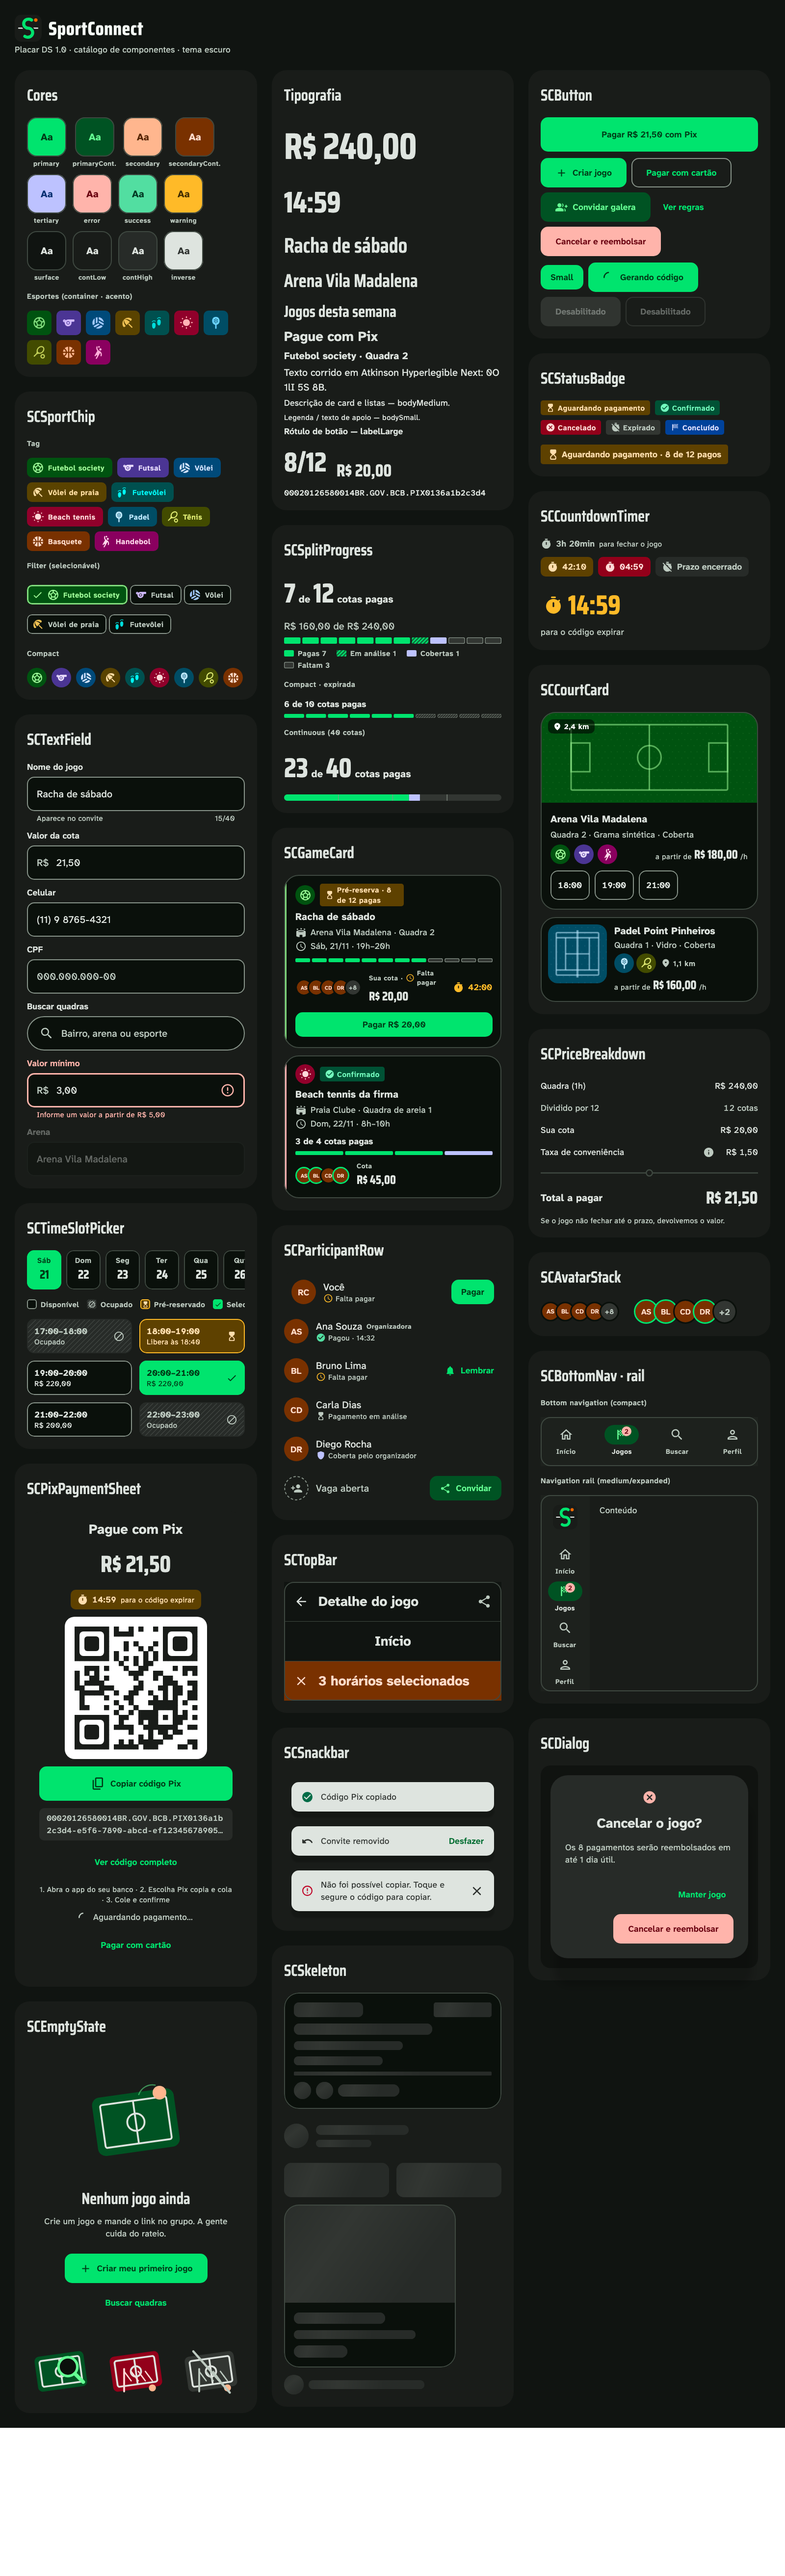
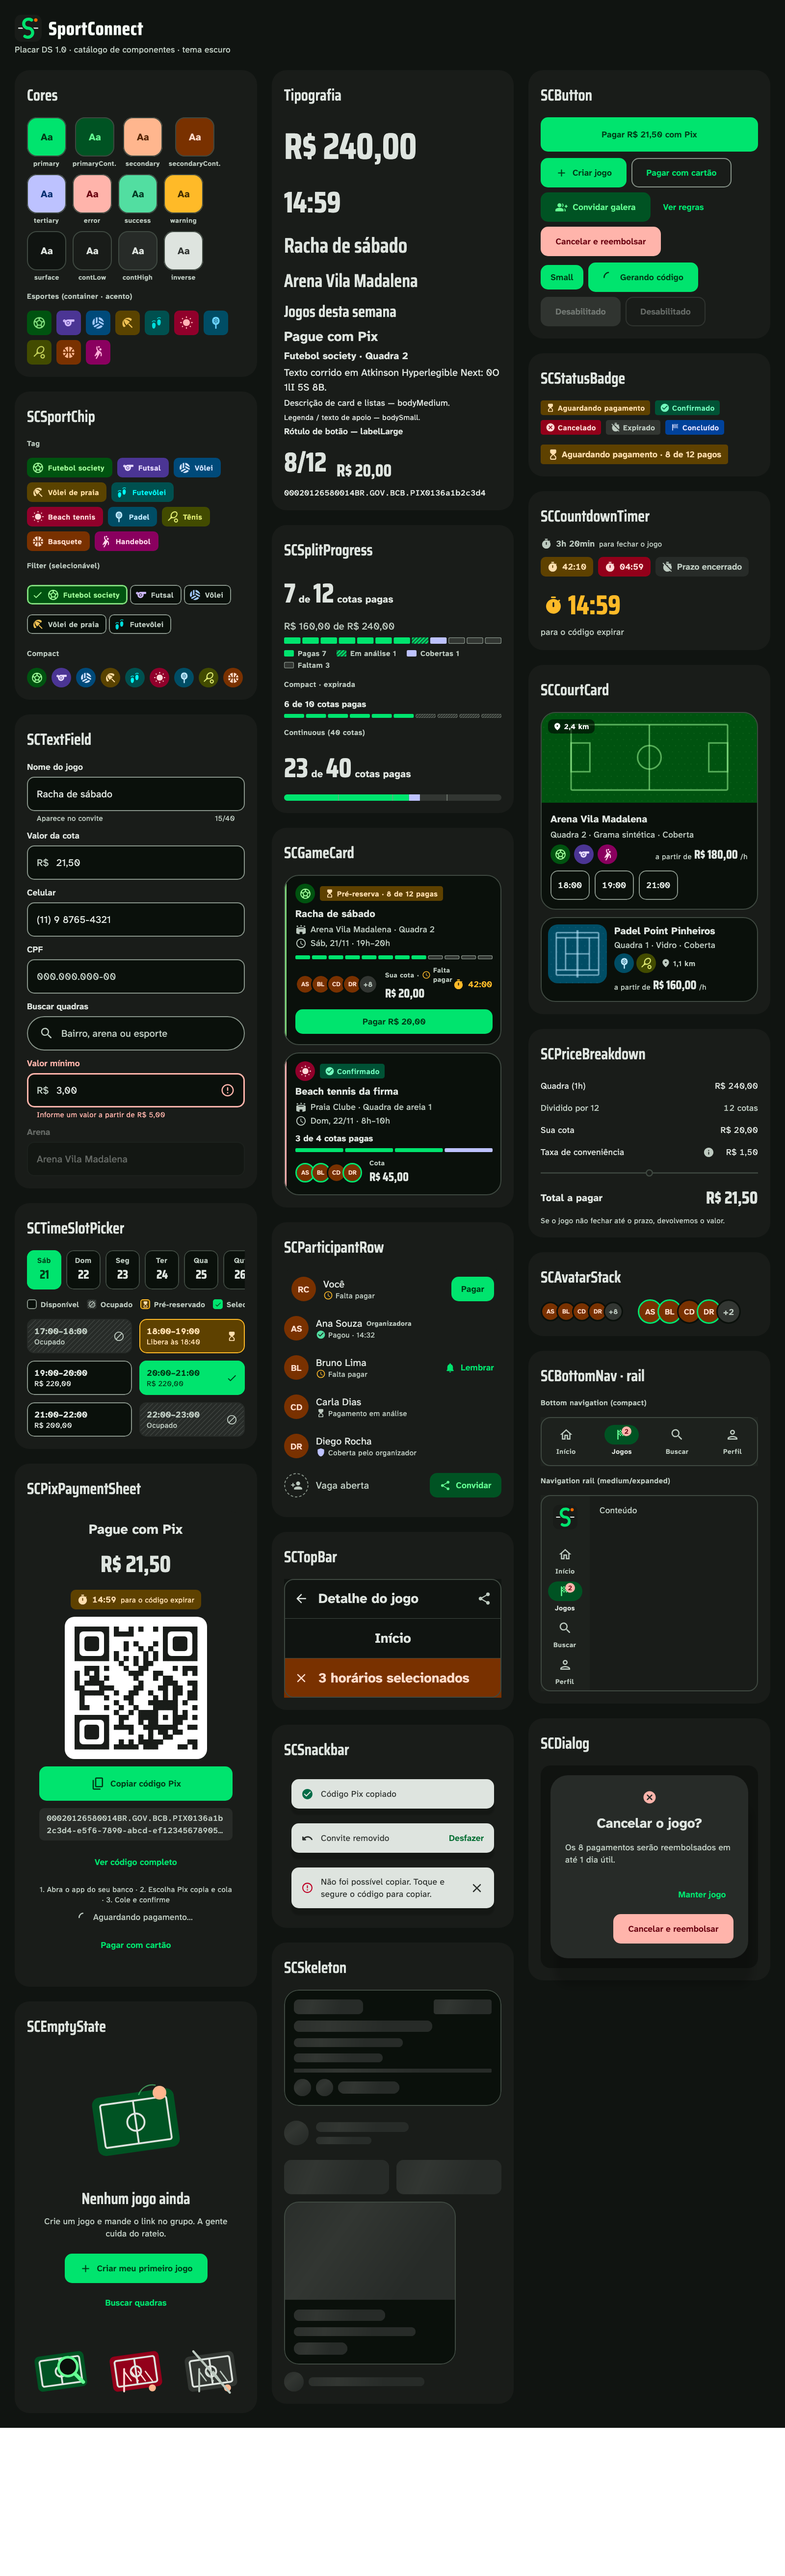
Fecha pendências P2: back preditivo, backup, CEP, versão única e ajustes
- Android: back preditivo (enableOnBackInvokedCallback), regras de backup
  sem a sessão (data_extraction_rules/backup_rules) e localeConfig pt-BR.
- Campo CEP com máscara e teclado numérico; placeholders no cadastro da arena.
- Versão do app numa fonte só (gradle.properties): versionName/versionCode
  do Android e AppInfo.VERSION_NAME gerado para o Perfil.
- BottomActionBar sobe com o teclado em todos os formulários.
- Navegação ignora toque duplo durante a transição (lifecycle RESUMED).
- Comprovante com esqueleto ao carregar; avatares sem cortar iniciais;
  valores dos repasses na fonte de preço; CTA fixo da arena só com 1 quadra;
  relógio injetado (LocalSCClock) no detalhe do jogo.

diff --git a/composeApp/src/commonMain/kotlin/br/com/sportconnect/feature/profile/ProfileFeature.kt b/composeApp/src/commonMain/kotlin/br/com/sportconnect/feature/profile/ProfileFeature.kt
@@ -2,6 +2,9 @@
 
 package br.com.sportconnect.feature.profile
 
+import br.com.sportconnect.AppInfo
+import br.com.sportconnect.core.designsystem.component.SCSkeletonShape
+import br.com.sportconnect.core.designsystem.component.SCSkeleton
 import org.koin.compose.koinInject
 import br.com.sportconnect.core.domain.repository.GameRepository
 import br.com.sportconnect.core.designsystem.component.SCPullToRefresh
@@ -331,7 +334,7 @@ fun ProfileScreen(
                     color = c.error,
                     modifier = Modifier.heightIn(min = 48.dp).clickable(role = Role.Button) { confirmLogout = true }.padding(vertical = 14.dp).testTag("profile_logout"),
                 )
-                Text(stringResource(Res.string.profile_version, "0.1.0"), style = t.bodySmall, color = c.onSurfaceVariant)
+                Text(stringResource(Res.string.profile_version, AppInfo.VERSION_NAME), style = t.bodySmall, color = c.onSurfaceVariant)
                 Spacer(Modifier.height(24.dp))
             }
         }
@@ -438,7 +441,13 @@ fun ReceiptScreen(p: MeuPagamento?, onBack: () -> Unit = {}) {
     val t = MaterialTheme.typography
     val share = rememberShareActions()
     Scaffold(containerColor = c.surface, topBar = { SCTopBar(stringResource(Res.string.receipt_title), onNavigationClick = onBack) }) { padding ->
-        if (p == null) return@Scaffold
+        if (p == null) {
+            // C22: esqueleto enquanto o comprovante carrega (antes a tela ficava em branco).
+            CenteredContent(Modifier.padding(padding).padding(16.dp)) {
+                SCSkeleton(SCSkeletonShape.Box(height = 280.dp), Modifier.fillMaxWidth())
+            }
+            return@Scaffold
+        }
         Column(Modifier.fillMaxSize().padding(padding).verticalScroll(rememberScrollState())) {
             CenteredContent(Modifier.padding(16.dp)) {
                 Column(

diff --git a/composeApp/src/commonMain/kotlin/br/com/sportconnect/core/designsystem/component/SCTextField.kt b/composeApp/src/commonMain/kotlin/br/com/sportconnect/core/designsystem/component/SCTextField.kt
@@ -48,7 +48,7 @@ import androidx.compose.ui.unit.dp
 import br.com.sportconnect.core.designsystem.theme.SCShape
 import br.com.sportconnect.core.designsystem.theme.SportConnectTheme
 
-enum class SCTextFieldType { Text, Money, Phone, Cpf, Search, Multiline }
+enum class SCTextFieldType { Text, Money, Phone, Cpf, Cep, Search, Multiline }
 
 /**
  * Campo de texto (06 §5.2). Rotulo SEMPRE visivel acima do campo (nome acessivel),
@@ -86,19 +86,21 @@ fun SCTextField(
     val digitLimit = when (type) {
         SCTextFieldType.Phone -> 11
         SCTextFieldType.Cpf -> 11
+        SCTextFieldType.Cep -> 8
         SCTextFieldType.Money -> 11
         else -> null
     }
     val effectiveMax = maxLength ?: digitLimit
-    val digitsOnly = type == SCTextFieldType.Money || type == SCTextFieldType.Phone || type == SCTextFieldType.Cpf
+    val digitsOnly = type == SCTextFieldType.Money || type == SCTextFieldType.Phone || type == SCTextFieldType.Cpf || type == SCTextFieldType.Cep
     val transformation: VisualTransformation = when (type) {
         SCTextFieldType.Money -> MoneyVisualTransformation
         SCTextFieldType.Phone -> MaskVisualTransformation("(##) # ####-####")
         SCTextFieldType.Cpf -> MaskVisualTransformation("###.###.###-##")
+        SCTextFieldType.Cep -> MaskVisualTransformation("#####-###")
         else -> VisualTransformation.None
     }
     val kbOptions = when (type) {
-        SCTextFieldType.Money, SCTextFieldType.Cpf -> keyboardOptions.copy(keyboardType = KeyboardType.Number)
+        SCTextFieldType.Money, SCTextFieldType.Cpf, SCTextFieldType.Cep -> keyboardOptions.copy(keyboardType = KeyboardType.Number)
         SCTextFieldType.Phone -> keyboardOptions.copy(keyboardType = KeyboardType.Phone)
         else -> keyboardOptions
     }

diff --git a/composeApp/src/commonMain/kotlin/br/com/sportconnect/feature/arenaadmin/onboarding/ArenaOnboardingScreen.kt b/composeApp/src/commonMain/kotlin/br/com/sportconnect/feature/arenaadmin/onboarding/ArenaOnboardingScreen.kt
@@ -205,8 +205,8 @@ private fun StepForm(step: OnboardingStep, state: ArenaOnboardingUiState, vm: Ar
         when (step) {
             OnboardingStep.Info -> {
                 SCTextField(state.name, vm::setName, stringResource(Res.string.aadm_onb_field_name), Modifier.fillMaxWidth(), errorText = if (err && state.nameError) stringResource(Res.string.aadm_onb_error_name) else null)
-                SCTextField(state.document, vm::setDocument, stringResource(Res.string.aadm_onb_field_doc), Modifier.fillMaxWidth(), type = SCTextFieldType.Cpf, errorText = if (err && state.documentError) stringResource(Res.string.aadm_onb_error_doc) else null)
-                SCTextField(state.cep, vm::setCep, stringResource(Res.string.aadm_onb_field_cep), Modifier.fillMaxWidth(), errorText = if (err && state.cepError) stringResource(Res.string.aadm_onb_error_cep) else null)
+                SCTextField(state.document, vm::setDocument, stringResource(Res.string.aadm_onb_field_doc), Modifier.fillMaxWidth(), type = SCTextFieldType.Cpf, placeholder = "000.000.000-00", errorText = if (err && state.documentError) stringResource(Res.string.aadm_onb_error_doc) else null)
+                SCTextField(state.cep, vm::setCep, stringResource(Res.string.aadm_onb_field_cep), Modifier.fillMaxWidth(), type = SCTextFieldType.Cep, placeholder = "00000-000", errorText = if (err && state.cepError) stringResource(Res.string.aadm_onb_error_cep) else null)
             }
             OnboardingStep.Courts -> {
                 Text(stringResource(Res.string.aadm_onb_courts_body), style = t.bodyMedium, color = c.onSurfaceVariant)

diff --git a/composeApp/src/commonMain/kotlin/br/com/sportconnect/feature/game/GameDetailScreen.kt b/composeApp/src/commonMain/kotlin/br/com/sportconnect/feature/game/GameDetailScreen.kt
@@ -203,18 +203,19 @@ fun GameDetailRoute(route: Route.GameDetail, actions: GameDetailActions) {
     val state by viewModel.uiState.collectAsStateWithLifecycle()
     val snackbar = remember { SnackbarHostState() }
     val share = rememberShareActions()
+    val clock = LocalSCClock.current
     LaunchedEffect(viewModel) {
         viewModel.events.collect { ev ->
             when (ev) {
                 is GameDetailEvent.RemindAll -> {
                     val j = ev.jogo
-                    val prazo = j.reserva.prazoCotas?.let { PtBrFormat.relative(it, kotlin.time.Clock.System.now()) } ?: ""
+                    val prazo = j.reserva.prazoCotas?.let { PtBrFormat.relative(it, clock.now()) } ?: ""
                     share.whatsapp(getString(Res.string.wa_group_reminder, ev.pending, j.titulo, prazo, inviteUrl(j.codigoConvite)))
                     snackbar.showSC(getString(Res.string.split_remind_sent, ev.pending), SCSnackbarKind.Success)
                 }
                 is GameDetailEvent.RemindOne -> {
                     val j = ev.jogo
-                    val prazo = j.reserva.prazoCotas?.let { PtBrFormat.relative(it, kotlin.time.Clock.System.now()) } ?: ""
+                    val prazo = j.reserva.prazoCotas?.let { PtBrFormat.relative(it, clock.now()) } ?: ""
                     val cota = (j.valorCotaConvidado + TaxaConveniencia.PIX).format()
                     share.whatsapp(getString(Res.string.wa_payment_reminder_2h, ev.name.substringBefore(' '), j.titulo, cota, prazo, inviteUrl(j.codigoConvite)))
                 }

diff --git a/composeApp/src/commonMain/kotlin/br/com/sportconnect/feature/account/AccountScreens.kt b/composeApp/src/commonMain/kotlin/br/com/sportconnect/feature/account/AccountScreens.kt
@@ -16,7 +16,6 @@ import androidx.compose.foundation.layout.fillMaxSize
 import androidx.compose.foundation.layout.fillMaxWidth
 import androidx.compose.foundation.layout.height
 import androidx.compose.foundation.layout.heightIn
-import androidx.compose.foundation.layout.imePadding
 import androidx.compose.foundation.layout.padding
 import androidx.compose.foundation.layout.size
 import androidx.compose.foundation.layout.width
@@ -345,7 +344,7 @@ fun DeleteAccountScreen(
             )
         },
         bottomBar = {
-            BottomActionBar(Modifier.imePadding()) {
+            BottomActionBar {
                 when (state.step) {
                     DeleteStep.Info -> SCButton(
                         stringResource(Res.string.profile_delete_account), { confirm = true },
@@ -485,7 +484,7 @@ fun EditProfileScreen(
         topBar = { SCTopBar(stringResource(Res.string.profile_edit_title), onNavigationClick = onBack) },
         snackbarHost = { SCSnackbarHost(snackbar) },
         bottomBar = {
-            BottomActionBar(Modifier.imePadding()) {
+            BottomActionBar {
                 SCButton(
                     stringResource(Res.string.common_save), onSave,
                     size = SCButtonSize.Large, fullWidth = true, loading = state.saving, enabled = state.dirty,

diff --git a/composeApp/src/commonMain/kotlin/br/com/sportconnect/navigation/AppNavHost.kt b/composeApp/src/commonMain/kotlin/br/com/sportconnect/navigation/AppNavHost.kt
@@ -2,6 +2,7 @@
 
 package br.com.sportconnect.navigation
 
+import androidx.lifecycle.Lifecycle
 import br.com.sportconnect.core.designsystem.component.LocalSCNavAnimatedScope
 import br.com.sportconnect.core.designsystem.component.LocalSCSharedTransitionScope
 import androidx.compose.runtime.CompositionLocalProvider
@@ -424,7 +425,14 @@ fun AppNavHost(
 
 /** Acoes de navegacao (encapsula o NavHostController; facilita previews/testes). */
 class AppNavigator(private val nc: NavHostController) {
-    fun go(route: Any) = nc.navigate(route) { launchSingleTop = true }
+    /**
+     * A11: ignora o toque enquanto a tela atual nao esta RESUMED (ex.: durante a transicao). Evita abrir a
+     * mesma tela duas vezes com toque duplo, mesmo com argumentos diferentes (launchSingleTop nao cobre).
+     */
+    fun go(route: Any) {
+        if (nc.currentBackStackEntry?.lifecycle?.currentState?.isAtLeast(Lifecycle.State.RESUMED) == false) return
+        nc.navigate(route) { launchSingleTop = true }
+    }
 
     fun back() {
         if (!nc.popBackStack()) resetTo(Route.Home)

diff --git a/composeApp/src/commonMain/kotlin/br/com/sportconnect/feature/arena/ArenaDetailScreen.kt b/composeApp/src/commonMain/kotlin/br/com/sportconnect/feature/arena/ArenaDetailScreen.kt
@@ -121,7 +121,10 @@ fun ArenaDetailScreen(state: ArenaDetailUiState, actions: ArenaDetailActions = A
         Scaffold(
             containerColor = c.surface,
             bottomBar = {
-                if (content != null && firstCourt != null && wc != WidthClass.Expanded) {
+                // C8: com varias quadras o CTA fixo era ambiguo ("Ver horarios" de qual?) e cada card ja tem horarios e
+                // "Ver todos". Fica so quando ha uma quadra.
+                val singleCourt = content?.detail?.quadras?.count { content.sport == null || it.suporta(content.sport) } == 1
+                if (content != null && firstCourt != null && singleCourt && wc != WidthClass.Expanded) {
                     BottomActionBar {
                         SCButton(
                             stringResource(Res.string.arena_detail_see_times),

diff --git a/composeApp/src/commonMain/kotlin/br/com/sportconnect/feature/common/FeatureUi.kt b/composeApp/src/commonMain/kotlin/br/com/sportconnect/feature/common/FeatureUi.kt
@@ -1,5 +1,6 @@
 package br.com.sportconnect.feature.common
 
+import androidx.compose.foundation.layout.imePadding
 import androidx.compose.foundation.background
 import androidx.compose.foundation.layout.Arrangement
 import androidx.compose.foundation.layout.Box
@@ -133,6 +134,8 @@ fun BottomActionBar(
                 Column(
                     Modifier.widthIn(max = ContentMaxWidth).fillMaxWidth()
                         .windowInsetsPadding(WindowInsets.navigationBars)
+                        // C21: sobe junto com o teclado (o CTA nao fica escondido em formularios).
+                        .imePadding()
                         .padding(horizontal = pad, vertical = 16.dp),
                     verticalArrangement = Arrangement.spacedBy(8.dp),
                     content = content,

diff --git a/composeApp/src/commonMain/kotlin/br/com/sportconnect/feature/auth/AuthFeature.kt b/composeApp/src/commonMain/kotlin/br/com/sportconnect/feature/auth/AuthFeature.kt
@@ -22,7 +22,6 @@ import androidx.compose.foundation.layout.fillMaxSize
 import androidx.compose.foundation.layout.fillMaxWidth
 import androidx.compose.foundation.layout.height
 import androidx.compose.foundation.layout.heightIn
-import androidx.compose.foundation.layout.imePadding
 import androidx.compose.foundation.layout.padding
 import androidx.compose.foundation.layout.size
 import androidx.compose.foundation.layout.width
@@ -333,7 +332,7 @@ fun AuthScreen(
             )
         },
         bottomBar = {
-            BottomActionBar(Modifier.imePadding()) {
+            BottomActionBar {
                 when (state.step) {
                     AuthStep.Phone -> {
                         SCButton(

diff --git a/composeApp/src/commonMain/kotlin/br/com/sportconnect/core/designsystem/component/SCGameCard.kt b/composeApp/src/commonMain/kotlin/br/com/sportconnect/core/designsystem/component/SCGameCard.kt
@@ -146,7 +146,7 @@ fun SCGameCard(
                 }
                 Row(Modifier.fillMaxWidth().padding(top = 4.dp), verticalAlignment = Alignment.CenterVertically) {
                     if (game.participants.isNotEmpty()) {
-                        SCAvatarStack(game.participants, paymentAware = variant == SCGameCardVariant.Organizer, size = 28.dp)
+                        SCAvatarStack(game.participants, paymentAware = variant == SCGameCardVariant.Organizer, size = 32.dp)
                         Spacer(Modifier.width(12.dp))
                     }
                     Column(Modifier.weight(1f)) {

diff --git a/composeApp/src/commonMain/kotlin/br/com/sportconnect/core/designsystem/component/SCAvatarStack.kt b/composeApp/src/commonMain/kotlin/br/com/sportconnect/core/designsystem/component/SCAvatarStack.kt
@@ -91,7 +91,8 @@ fun SCAvatarStack(
     val extra = people.size - shown.size
     val names = shown.joinToString(", ") { it.name.substringBefore(' ') }
     val cd = if (extra > 0) "$names ${stringResource(Res.string.ds_avatar_more, extra)}" else names
-    val overlap = 8.dp
+    // C20: sobreposicao proporcional (antes 8dp fixos cortavam as iniciais em avatares pequenos).
+    val overlap = size * 0.2f
     Row(
         modifier = modifier
             .then(if (onClick != null) Modifier.minimumInteractiveComponentSize().clip(SCShape.full).clickable(onClick = onClick) else Modifier)

diff --git a/composeApp/src/commonMain/kotlin/br/com/sportconnect/feature/arenaadmin/payouts/ArenaPayoutsScreen.kt b/composeApp/src/commonMain/kotlin/br/com/sportconnect/feature/arenaadmin/payouts/ArenaPayoutsScreen.kt
@@ -322,7 +322,7 @@ private fun PayoutRow(item: PayoutItemUi, onClick: () -> Unit) {
                 PayoutStatusChip(item.status)
             }
         }
-        Text(item.net.formatBrl(), style = t.titleMedium, color = c.onSurface)
+        Text(item.net.formatBrl(), style = SportConnectTheme.typographyExt.numericPriceSmall, color = c.onSurface)
     }
 }
 
